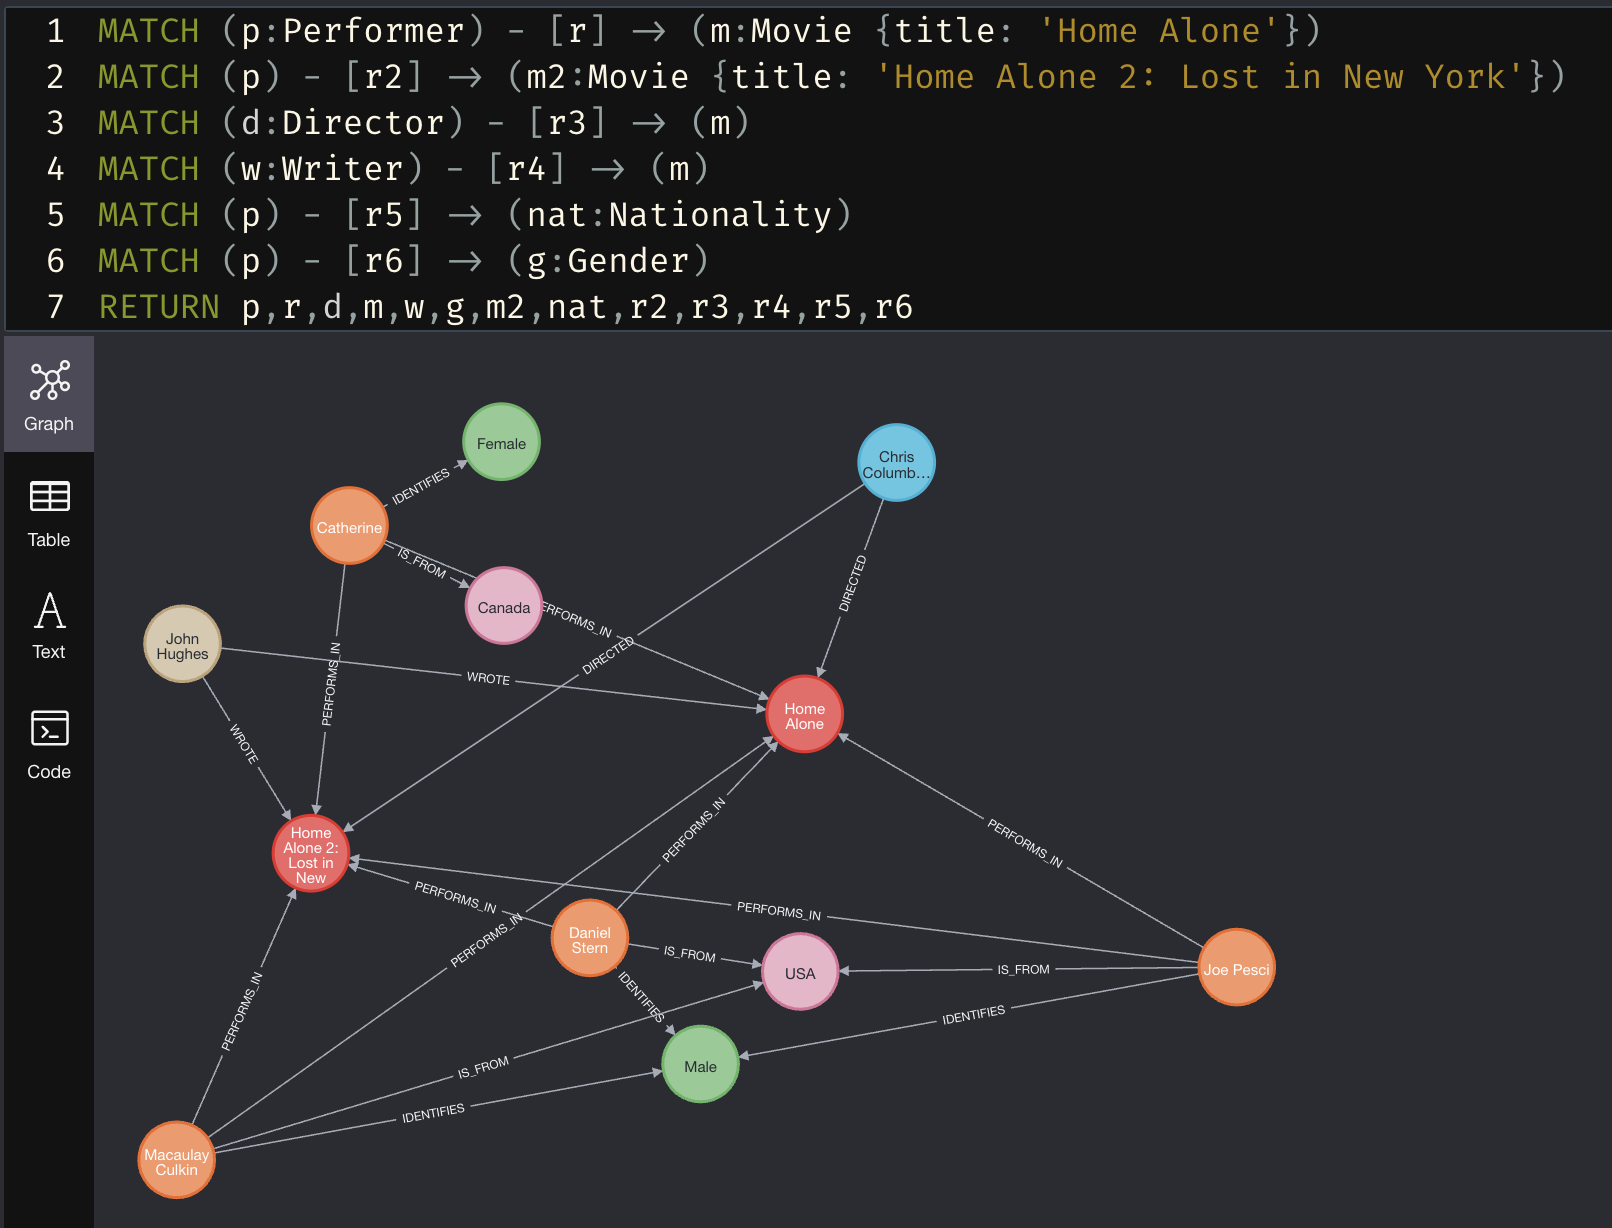
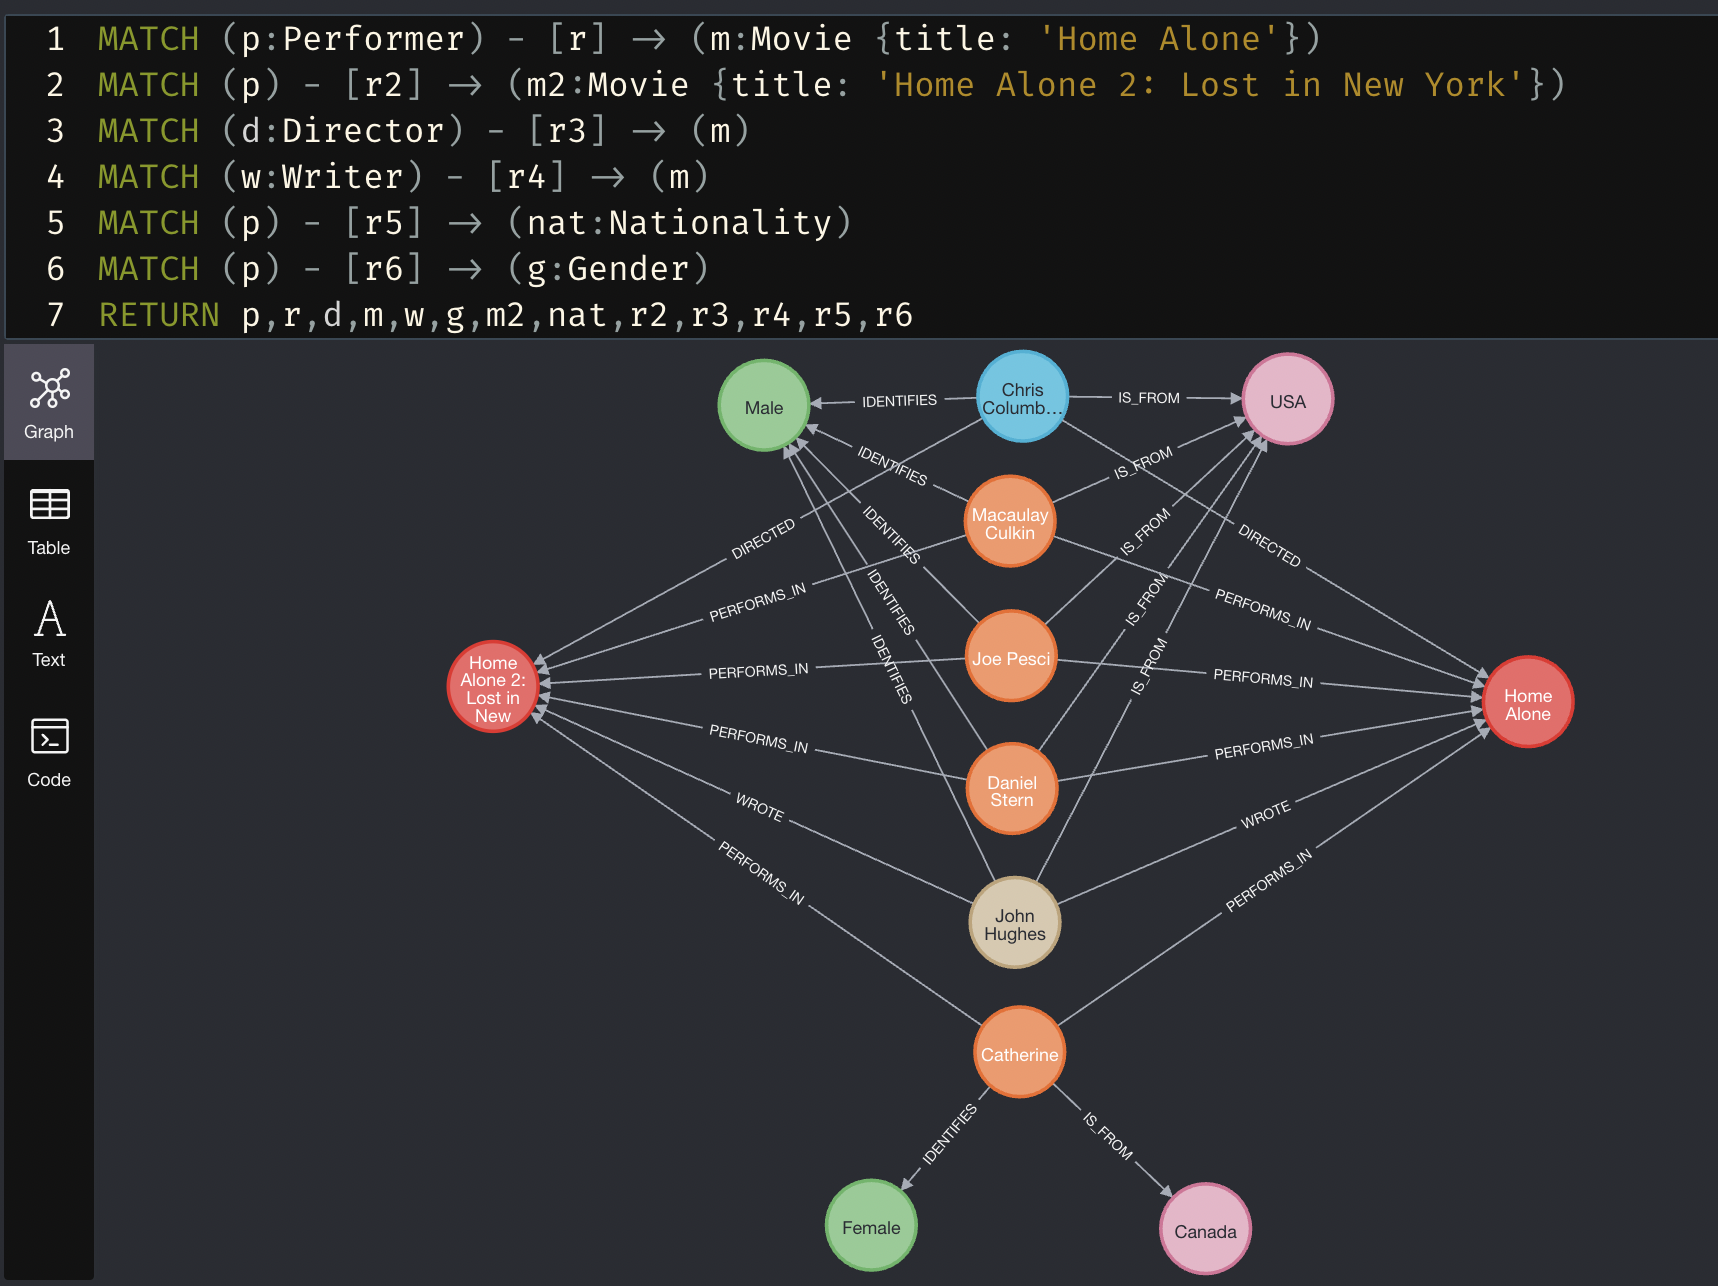
fixed netflix practice

diff --git a/netflix-practice.md b/netflix-practice.md
@@ -67,19 +67,19 @@ CREATE (artist)-[rel:PERFORMS_IN]->(m);
 
 --Identifies
 
-MATCH (artist:Performer {name: 'Chris Columbus'})
+MATCH (artist:Director {name: 'Chris Columbus'})
 MATCH (g:Gender {name: "Male"})
 CREATE (artist)-[rel:IDENTIFIES]->(g);
 
-MATCH (artist:Performer {name: 'Edgar Wright'})
+MATCH (artist:Director {name: 'Edgar Wright'})
 MATCH (g:Gender {name: "Male"})
 CREATE (artist)-[rel:IDENTIFIES]->(g);
 
-MATCH (artist:Performer {name: 'Steven Spielberg'})
+MATCH (artist:Director {name: 'Steven Spielberg'})
 MATCH (g:Gender {name: "Male"})
 CREATE (artist)-[rel:IDENTIFIES]->(g);
 
-MATCH (artist:Performer {name: 'John Hughes'})
+MATCH (artist:Writer {name: 'John Hughes'})
 MATCH (g:Gender {name: "Male"})
 CREATE (artist)-[rel:IDENTIFIES]->(g);
 
@@ -91,15 +91,11 @@ MATCH (artist:Performer {name: 'Daniel Stern'})
 MATCH (g:Gender {name: "Male"})
 CREATE (artist)-[rel:IDENTIFIES]->(g);
 
-MATCH (artist:Performer {name: 'Chris Columbus'})
-MATCH (g:Gender {name: "Male"})
-CREATE (artist)-[rel:IDENTIFIES]->(g);
-
 MATCH (artist:Performer {name: 'Macaulay Culkin'})
 MATCH (g:Gender {name: "Male"})
 CREATE (artist)-[rel:IDENTIFIES]->(g);
 
-MATCH (artist:Performer {name: 'Martin Scorsese'})
+MATCH (artist:Director {name: 'Martin Scorsese'})
 MATCH (g:Gender {name: "Male"})
 CREATE (artist)-[rel:IDENTIFIES]->(g);
 
@@ -109,19 +105,19 @@ CREATE (artist)-[rel:IDENTIFIES]->(g);
 
 -- Is_From
 
-MATCH (artist:Performer {name: 'Chris Columbus'})
+MATCH (artist:Director {name: 'Chris Columbus'})
 MATCH (n:Nationality {country: "USA"})
 CREATE (artist)-[rel:IS_FROM]->(n);
 
-MATCH (artist:Performer {name: 'Edgar Wright'})
+MATCH (artist:Director {name: 'Edgar Wright'})
 MATCH (n:Nationality {country: "UK"})
 CREATE (artist)-[rel:IS_FROM]->(n);
 
-MATCH (artist:Performer {name: 'Steven Spielberg'})
+MATCH (artist:Director {name: 'Steven Spielberg'})
 MATCH (n:Nationality {country: "USA"})
 CREATE (artist)-[rel:IS_FROM]->(n);
 
-MATCH (artist:Performer {name: 'John Hughes'})
+MATCH (artist:Writer {name: 'John Hughes'})
 MATCH (n:Nationality {country: "USA"})
 CREATE (artist)-[rel:IS_FROM]->(n);
 
@@ -133,15 +129,11 @@ MATCH (artist:Performer {name: 'Daniel Stern'})
 MATCH (n:Nationality {country: "USA"})
 CREATE (artist)-[rel:IS_FROM]->(n);
 
-MATCH (artist:Performer {name: 'Chris Columbus'})
-MATCH (n:Nationality {country: "USA"})
-CREATE (artist)-[rel:IS_FROM]->(n);
-
 MATCH (artist:Performer {name: 'Macaulay Culkin'})
 MATCH (n:Nationality {country: "USA"})
 CREATE (artist)-[rel:IS_FROM]->(n);
 
-MATCH (artist:Performer {name: 'Martin Scorsese'})
+MATCH (artist:Director {name: 'Martin Scorsese'})
 MATCH (n:Nationality {country: "USA"})
 CREATE (artist)-[rel:IS_FROM]->(n);
 
@@ -213,4 +205,4 @@ RETURN m,v,r,d,rel
 
 <center><img src="./assets/q5.png" style="width: 90%" ></img></center>
 
-> Returns a graph of movies in the datasetdirected by Chris Columbus with all the viewers who rated the movies on the same day.
+> Returns a graph of movies in the dataset directed by Chris Columbus with all the viewers who rated the movies on the same day.
